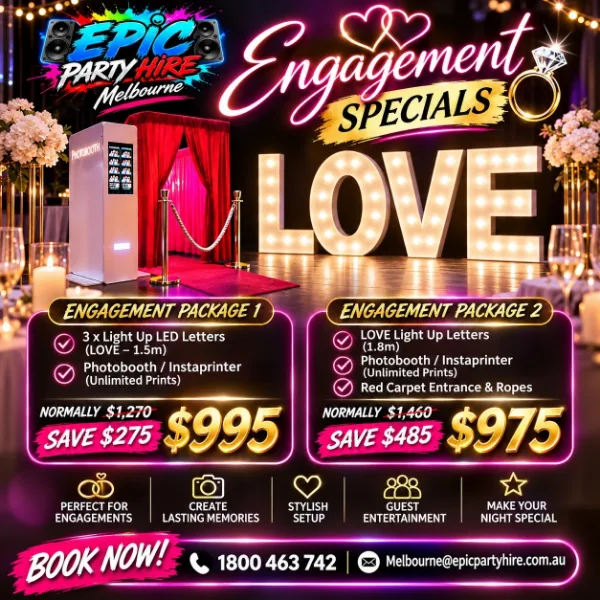
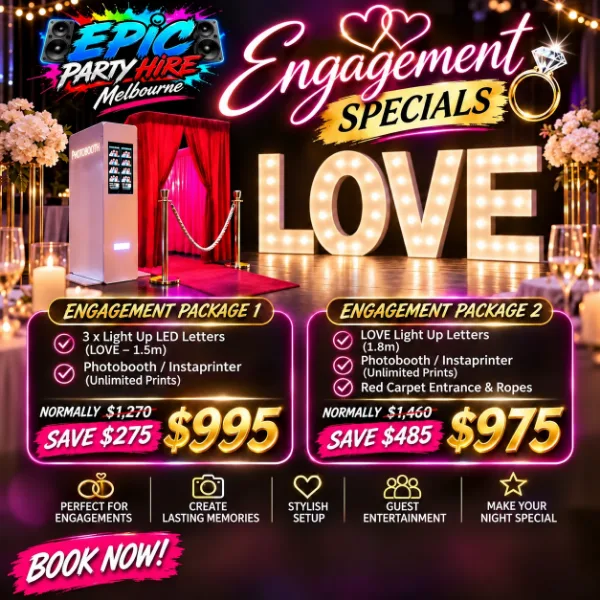
New package flyers without contact details: kids, VIP, corporate (also hero/OG), engagement

diff --git a/index.html b/index.html
@@ -17,15 +17,15 @@
 <meta content="EPIC Party Hire Melbourne" property="og:site_name"/>
 <meta content="Party Hire Melbourne | EPIC Party Hire" property="og:title"/>
 <meta content="Slushie machines, photo booths, popcorn, giant light-up numbers and party packages across Melbourne. Good times. Big moments. EPIC events." property="og:description"/>
-<meta content="https://www.epicpartyhire.com.au/assets/corporate.webp?v=2" property="og:image"/>
+<meta content="https://www.epicpartyhire.com.au/assets/corporate.webp?v=3" property="og:image"/>
 <meta content="EPIC Party Hire Melbourne corporate event package" property="og:image:alt"/>
 <meta content="https://www.epicpartyhire.com.au/" property="og:url"/>
 <meta content="summary_large_image" name="twitter:card"/>
 <meta content="Party Hire Melbourne | EPIC Party Hire" name="twitter:title"/>
 <meta content="Slushie machines, photo booths, popcorn, giant light-up numbers and party packages across Melbourne." name="twitter:description"/>
-<meta content="https://www.epicpartyhire.com.au/assets/corporate.webp?v=2" name="twitter:image"/>
+<meta content="https://www.epicpartyhire.com.au/assets/corporate.webp?v=3" name="twitter:image"/>
 <link href="/favicon.ico?v=logo2" rel="icon" sizes="48x48"/><link href="/assets/icon-96.png?v=logo2" rel="icon" sizes="96x96" type="image/png"/><link href="/assets/icon-192.png?v=logo2" rel="icon" sizes="192x192" type="image/png"/><link href="/apple-touch-icon.png?v=logo2" rel="apple-touch-icon" sizes="180x180"/><link href="/site.webmanifest?v=logo2" rel="manifest"/>
-<link as="image" fetchpriority="high" href="assets/corporate.webp?v=2" rel="preload" type="image/webp"/>
+<link as="image" fetchpriority="high" href="assets/corporate.webp?v=3" rel="preload" type="image/webp"/>
 <link href="styles.css?v=faces2" rel="stylesheet"/>
 <script type="application/ld+json">{"@context":"https://schema.org","@graph":[
 {"@type":"LocalBusiness","@id":"https://www.epicpartyhire.com.au/#business","name":"EPIC Party Hire Melbourne","alternateName":"EPIC Party Hire","sameAs":["https://www.facebook.com/profile.php?id=61595848451612","https://www.instagram.com/epicpartyhiremelbourne/"],"url":"https://www.epicpartyhire.com.au/","logo":"https://www.epicpartyhire.com.au/assets/logo-epic.webp","image":["https://www.epicpartyhire.com.au/assets/corporate.webp","https://www.epicpartyhire.com.au/assets/crew.webp"],"email":"melbourne@epicpartyhire.com.au","telephone":"1800 463 742","priceRange":"$$","currenciesAccepted":"AUD","paymentAccepted":"Bank transfer","address":{"@type":"PostalAddress","addressLocality":"Melbourne","addressRegion":"VIC","addressCountry":"AU"},"areaServed":{"@type":"City","name":"Melbourne","containedInPlace":{"@type":"State","name":"Victoria"}},"description":"Melbourne party hire: slushie and popcorn machines, photo booths, giant light-up letters and numbers, karaoke, arcade games, outdoor cinema and party packages for birthdays, weddings, engagements and corporate events.","contactPoint":[{"@type":"ContactPoint","telephone":"1800 463 742","contactType":"sales","areaServed":"AU","availableLanguage":"English"},{"@type":"ContactPoint","name":"Cardez","telephone":"+61404875801","contactType":"customer service","areaServed":"AU"},{"@type":"ContactPoint","name":"Spock","telephone":"+61417308645","contactType":"customer service","areaServed":"AU"},{"@type":"ContactPoint","name":"Millsy","telephone":"+61468937636","contactType":"customer service","areaServed":"AU"}],
@@ -85,7 +85,7 @@
 <div class="hero__proof"><span aria-hidden="true" class="proof-icon">★</span><span>Birthdays <b>•</b> Weddings <b>•</b> Corporate events <b>•</b> More</span></div>
 </div>
 <div class="hero__visual">
-<div class="hero__visual-border"><img alt="EPIC Party Hire corporate event packages with photo booth, slushie machines, popcorn and light-up letters" fetchpriority="high" height="1254" src="assets/corporate.webp?v=2" width="1254"/></div>
+<div class="hero__visual-border"><img alt="EPIC Party Hire corporate event packages with photo booth, slushie machines, popcorn and light-up letters" fetchpriority="high" height="1254" src="assets/corporate.webp?v=3" width="1254"/></div>
 <div class="floating-sticker floating-sticker--top">TURN UP<br/><strong>THE FUN!</strong></div>
 <div class="floating-sticker floating-sticker--bottom">MELBOURNE PARTY &amp; EVENT HIRE</div>
 </div>
@@ -119,11 +119,11 @@
 <div class="container">
 <div class="section-heading section-heading--light"><div><span class="section-kicker">BIG FUN. BETTER VALUE.</span><h2 id="packages-title">THE EPIC <em>PACKAGES.</em></h2><p>Party bundles with the crowd favourites already picked out. Choose a vibe, tell us your date and we'll take it from there.</p></div><div class="package-arrows"><button aria-label="Scroll packages left" id="prev-package" type="button">←</button><button aria-label="Scroll packages right" id="next-package" type="button">→</button></div></div>
 <div aria-label="Party hire package options" class="package-rail" id="package-rail" tabindex="0">
-<article class="deal-card product-card" data-product="pkg-kids"><button aria-label="View details for Kids Party Package" class="product-card__open" type="button"><span class="deal-card__image"><img alt="Kids Party Package promotional artwork" decoding="async" height="657" loading="lazy" src="assets/cards/kids.webp?v=2" width="600"/><span class="deal-badge">SAVE $200</span></span></button><div class="deal-card__body"><div class="deal-card__titleline"><h3>Kids Party Package</h3><span class="deal-card__price">$510</span></div><p>Slushie, popcorn, fairy floss and a giant 90cm light-up number.</p><div class="deal-card__actions"><button class="deal-card__button deal-card__button--primary product-card__details-btn" type="button">VIEW DETAILS <span>+</span></button><button aria-label="Select this package and go to the enquiry form" class="deal-card__button deal-card__button--select choose-deal" data-item="Kids Party Package ($510)" type="button">SELECT PACKAGE <span>✓</span></button></div></div><div class="product-card__more" hidden=""><img alt="Kids Party Package flyer with prices" data-src="assets/kids.webp?v=2" height="1312" width="1199"/><h3>Kids Party Package</h3><p class="product-modal__spiel">Everything the little legends love in one bundle. Sweet treats, cold slushies and a giant light-up number for the birthday photos.</p><table class="product-modal__prices"><caption>Price</caption><tbody><tr><th scope="row">Package price <small>(normally $710)</small></th><td>$510</td></tr></tbody></table><h4>What's included</h4><ul><li>Single bowl slushie machine</li><li>Fairy floss machine (up to 150 serves)</li><li>Popcorn machine (up to 150 serves)</li><li>1 x giant light-up number (90cm)</li></ul><span class="product-modal__item" data-item="Kids Party Package ($510)" data-kind="package"></span></div></article>
-<article class="deal-card product-card" data-product="pkg-vip"><button aria-label="View details for VIP Night Package" class="product-card__open" type="button"><span class="deal-card__image"><img alt="VIP Night Package promotional artwork" decoding="async" height="600" loading="lazy" src="assets/cards/vip.webp?v=2" width="600"/><span class="deal-badge">SAVE $485</span></span></button><div class="deal-card__body"><div class="deal-card__titleline"><h3>VIP Night Package</h3><span class="deal-card__price">$975</span></div><p>Slushies, karaoke, photo booth, light-up numbers and snacks.</p><div class="deal-card__actions"><button class="deal-card__button deal-card__button--primary product-card__details-btn" type="button">VIEW DETAILS <span>+</span></button><button aria-label="Select this package and go to the enquiry form" class="deal-card__button deal-card__button--select choose-deal" data-item="VIP Night Package ($975)" type="button">SELECT PACKAGE <span>✓</span></button></div></div><div class="product-card__more" hidden=""><img alt="VIP Night Package flyer with prices" data-src="assets/vip.webp?v=2" height="1254" width="1254"/><h3>VIP Night Package</h3><p class="product-modal__spiel">Roll out the red carpet. Our biggest party bundle for 18ths, 21sts, 30ths, 40ths and every milestone worth going all out for.</p><table class="product-modal__prices"><caption>Price</caption><tbody><tr><th scope="row">Package price <small>(normally $1,460)</small></th><td>$975</td></tr></tbody></table><h4>What's included</h4><ul><li>1 x twin bowl slushie machine</li><li>Karaoke jukebox (5000+ tracks)</li><li>2 x light-up numbers (1.5m)</li><li>Photo booth / Instaprinter</li><li>Popcorn machine (up to 150 serves)</li><li>Fairy floss machine (up to 150 serves)</li></ul><span class="product-modal__item" data-item="VIP Night Package ($975)" data-kind="package"></span></div></article>
-<article class="deal-card product-card" data-product="pkg-corporate"><button aria-label="View details for Corporate Events" class="product-card__open" type="button"><span class="deal-card__image"><img alt="Corporate Events promotional artwork" decoding="async" height="600" loading="lazy" src="assets/cards/corporate.webp?v=2" width="600"/><span class="deal-badge">SAVE $600</span></span></button><div class="deal-card__body"><div class="deal-card__titleline"><h3>Corporate Events</h3><span class="deal-card__price">$1,500</span></div><p>Photo booth, karaoke, slushies, popcorn, fairy floss and light-ups.</p><div class="deal-card__actions"><button class="deal-card__button deal-card__button--primary product-card__details-btn" type="button">VIEW DETAILS <span>+</span></button><button aria-label="Select this package and go to the enquiry form" class="deal-card__button deal-card__button--select choose-deal" data-item="Corporate Events Package ($1,500)" type="button">SELECT PACKAGE <span>✓</span></button></div></div><div class="product-card__more" hidden=""><img alt="Corporate Events flyer with prices" data-src="assets/corporate.webp?v=2" height="1254" width="1254"/><h3>Corporate Events</h3><p class="product-modal__spiel">Premium event hire for business and corporate functions. Great for product launches, staff parties, end-of-year events, conferences and awards nights.</p><table class="product-modal__prices"><caption>Price</caption><tbody><tr><th scope="row">Package price <small>(normally $2,100)</small></th><td>$1,500</td></tr></tbody></table><h4>What's included</h4><ul><li>Photo booth / Instaprinter</li><li>Karaoke jukebox (5000+ tracks)</li><li>Twin bowl slushie machine</li><li>Popcorn machine</li><li>Fairy floss machine</li><li>Light-up letters and numbers</li></ul><span class="product-modal__item" data-item="Corporate Events Package ($1,500)" data-kind="package"></span></div></article>
+<article class="deal-card product-card" data-product="pkg-kids"><button aria-label="View details for Kids Party Package" class="product-card__open" type="button"><span class="deal-card__image"><img alt="Kids Party Package promotional artwork" decoding="async" height="800" loading="lazy" src="assets/cards/kids.webp?v=3" width="600"/><span class="deal-badge">SAVE $200</span></span></button><div class="deal-card__body"><div class="deal-card__titleline"><h3>Kids Party Package</h3><span class="deal-card__price">$510</span></div><p>Slushie, popcorn, fairy floss and a giant 90cm light-up number.</p><div class="deal-card__actions"><button class="deal-card__button deal-card__button--primary product-card__details-btn" type="button">VIEW DETAILS <span>+</span></button><button aria-label="Select this package and go to the enquiry form" class="deal-card__button deal-card__button--select choose-deal" data-item="Kids Party Package ($510)" type="button">SELECT PACKAGE <span>✓</span></button></div></div><div class="product-card__more" hidden=""><img alt="Kids Party Package flyer with prices" data-src="assets/kids.webp?v=3" height="1448" width="1086"/><h3>Kids Party Package</h3><p class="product-modal__spiel">Everything the little legends love in one bundle. Sweet treats, cold slushies and a giant light-up number for the birthday photos.</p><table class="product-modal__prices"><caption>Price</caption><tbody><tr><th scope="row">Package price <small>(normally $710)</small></th><td>$510</td></tr></tbody></table><h4>What's included</h4><ul><li>Single bowl slushie machine</li><li>Fairy floss machine (up to 150 serves)</li><li>Popcorn machine (up to 150 serves)</li><li>1 x giant light-up number (90cm)</li></ul><span class="product-modal__item" data-item="Kids Party Package ($510)" data-kind="package"></span></div></article>
+<article class="deal-card product-card" data-product="pkg-vip"><button aria-label="View details for VIP Night Package" class="product-card__open" type="button"><span class="deal-card__image"><img alt="VIP Night Package promotional artwork" decoding="async" height="800" loading="lazy" src="assets/cards/vip.webp?v=3" width="600"/><span class="deal-badge">SAVE $485</span></span></button><div class="deal-card__body"><div class="deal-card__titleline"><h3>VIP Night Package</h3><span class="deal-card__price">$975</span></div><p>Slushies, karaoke, photo booth, light-up numbers and snacks.</p><div class="deal-card__actions"><button class="deal-card__button deal-card__button--primary product-card__details-btn" type="button">VIEW DETAILS <span>+</span></button><button aria-label="Select this package and go to the enquiry form" class="deal-card__button deal-card__button--select choose-deal" data-item="VIP Night Package ($975)" type="button">SELECT PACKAGE <span>✓</span></button></div></div><div class="product-card__more" hidden=""><img alt="VIP Night Package flyer with prices" data-src="assets/vip.webp?v=3" height="1448" width="1086"/><h3>VIP Night Package</h3><p class="product-modal__spiel">Roll out the red carpet. Our biggest party bundle for 18ths, 21sts, 30ths, 40ths and every milestone worth going all out for.</p><table class="product-modal__prices"><caption>Price</caption><tbody><tr><th scope="row">Package price <small>(normally $1,460)</small></th><td>$975</td></tr></tbody></table><h4>What's included</h4><ul><li>1 x twin bowl slushie machine</li><li>Karaoke jukebox (5000+ tracks)</li><li>2 x light-up numbers (1.5m)</li><li>Photo booth / Instaprinter</li><li>Popcorn machine (up to 150 serves)</li><li>Fairy floss machine (up to 150 serves)</li></ul><span class="product-modal__item" data-item="VIP Night Package ($975)" data-kind="package"></span></div></article>
+<article class="deal-card product-card" data-product="pkg-corporate"><button aria-label="View details for Corporate Events" class="product-card__open" type="button"><span class="deal-card__image"><img alt="Corporate Events promotional artwork" decoding="async" height="600" loading="lazy" src="assets/cards/corporate.webp?v=3" width="600"/><span class="deal-badge">SAVE $600</span></span></button><div class="deal-card__body"><div class="deal-card__titleline"><h3>Corporate Events</h3><span class="deal-card__price">$1,500</span></div><p>Photo booth, karaoke, slushies, popcorn, fairy floss and light-ups.</p><div class="deal-card__actions"><button class="deal-card__button deal-card__button--primary product-card__details-btn" type="button">VIEW DETAILS <span>+</span></button><button aria-label="Select this package and go to the enquiry form" class="deal-card__button deal-card__button--select choose-deal" data-item="Corporate Events Package ($1,500)" type="button">SELECT PACKAGE <span>✓</span></button></div></div><div class="product-card__more" hidden=""><img alt="Corporate Events flyer with prices" data-src="assets/corporate.webp?v=3" height="1254" width="1254"/><h3>Corporate Events</h3><p class="product-modal__spiel">Premium event hire for business and corporate functions. Great for product launches, staff parties, end-of-year events, conferences and awards nights.</p><table class="product-modal__prices"><caption>Price</caption><tbody><tr><th scope="row">Package price <small>(normally $2,100)</small></th><td>$1,500</td></tr></tbody></table><h4>What's included</h4><ul><li>Photo booth / Instaprinter</li><li>Karaoke jukebox (5000+ tracks)</li><li>Twin bowl slushie machine</li><li>Popcorn machine</li><li>Fairy floss machine</li><li>Light-up letters and numbers</li></ul><span class="product-modal__item" data-item="Corporate Events Package ($1,500)" data-kind="package"></span></div></article>
 <article class="deal-card product-card" data-product="pkg-movie"><button aria-label="View details for Movie Night" class="product-card__open" type="button"><span class="deal-card__image"><img alt="Movie Night promotional artwork" decoding="async" height="600" loading="lazy" src="assets/cards/movie.webp?v=4" width="600"/><span class="deal-badge">SAVE $100</span></span></button><div class="deal-card__body"><div class="deal-card__titleline"><h3>Movie Night</h3><span class="deal-card__price">$400</span></div><p>Outdoor inflatable cinema screen and popcorn machine.</p><div class="deal-card__actions"><button class="deal-card__button deal-card__button--primary product-card__details-btn" type="button">VIEW DETAILS <span>+</span></button><button aria-label="Select this package and go to the enquiry form" class="deal-card__button deal-card__button--select choose-deal" data-item="Movie Night Package ($400)" type="button">SELECT PACKAGE <span>✓</span></button></div></div><div class="product-card__more" hidden=""><img alt="Movie Night flyer with prices" data-src="assets/movie.webp?v=4" height="1254" width="1254"/><h3>Movie Night</h3><p class="product-modal__spiel">Backyard movie night, sorted. A giant inflatable screen under the stars and fresh popcorn for everyone.</p><table class="product-modal__prices"><caption>Price</caption><tbody><tr><th scope="row">Package price <small>(normally $500)</small></th><td>$400</td></tr></tbody></table><h4>What's included</h4><ul><li>Outdoor cinema with large 100-inch inflatable screen</li><li>Popcorn machine (serves included)</li></ul><span class="product-modal__item" data-item="Movie Night Package ($400)" data-kind="package"></span></div></article>
-<article class="deal-card product-card" data-product="pkg-engagement"><button aria-label="View details for Special Engagement" class="product-card__open" type="button"><span class="deal-card__image"><img alt="Special Engagement promotional artwork" decoding="async" height="600" loading="lazy" src="assets/cards/engagement.webp?v=2" width="600"/><span class="deal-badge">SAVE UP TO $485</span></span></button><div class="deal-card__body"><div class="deal-card__titleline"><h3>Special Engagement</h3><span class="deal-card__price">From $975</span></div><p>Two packages: LOVE letters and photo booth, or add a red carpet entrance.</p><div class="deal-card__actions"><button class="deal-card__button deal-card__button--primary product-card__details-btn" type="button">VIEW DETAILS <span>+</span></button><button aria-label="Select this package and go to the enquiry form" class="deal-card__button deal-card__button--select choose-deal" data-item="Special Engagement package (from $975)" type="button">SELECT PACKAGE <span>✓</span></button></div></div><div class="product-card__more" hidden=""><img alt="Special Engagement flyer with prices" data-src="assets/engagement.webp?v=2" height="1254" width="1254"/><h3>Special Engagement</h3><p class="product-modal__spiel">Make the big yes unforgettable. Glowing LOVE letters, a photo booth so every guest takes home a memory, and the option of a red-carpet VIP entrance.</p><table class="product-modal__prices"><caption>Prices</caption><tbody><tr><th scope="row">Package 1 <small>(normally $1,270)</small></th><td>$995</td></tr><tr><th scope="row">Package 2 <small>(normally $1,460)</small></th><td>$975</td></tr></tbody></table><h4>Package 1 includes</h4><ul><li>3 x light-up LED letters (LOVE, 1.5m)</li><li>Photo booth / Instaprinter with unlimited prints</li></ul><h4>Package 2 includes</h4><ul><li>LOVE light-up letters (1.8m)</li><li>Photo booth / Instaprinter with unlimited prints</li><li>Red carpet entrance and ropes</li></ul><span class="product-modal__item" data-item="Special Engagement package (from $975)" data-kind="package"></span></div></article>
+<article class="deal-card product-card" data-product="pkg-engagement"><button aria-label="View details for Special Engagement" class="product-card__open" type="button"><span class="deal-card__image"><img alt="Special Engagement promotional artwork" decoding="async" height="600" loading="lazy" src="assets/cards/engagement.webp?v=3" width="600"/><span class="deal-badge">SAVE UP TO $485</span></span></button><div class="deal-card__body"><div class="deal-card__titleline"><h3>Special Engagement</h3><span class="deal-card__price">From $975</span></div><p>Two packages: LOVE letters and photo booth, or add a red carpet entrance.</p><div class="deal-card__actions"><button class="deal-card__button deal-card__button--primary product-card__details-btn" type="button">VIEW DETAILS <span>+</span></button><button aria-label="Select this package and go to the enquiry form" class="deal-card__button deal-card__button--select choose-deal" data-item="Special Engagement package (from $975)" type="button">SELECT PACKAGE <span>✓</span></button></div></div><div class="product-card__more" hidden=""><img alt="Special Engagement flyer with prices" data-src="assets/engagement.webp?v=3" height="1254" width="1254"/><h3>Special Engagement</h3><p class="product-modal__spiel">Make the big yes unforgettable. Glowing LOVE letters, a photo booth so every guest takes home a memory, and the option of a red-carpet VIP entrance.</p><table class="product-modal__prices"><caption>Prices</caption><tbody><tr><th scope="row">Package 1 <small>(normally $1,270)</small></th><td>$995</td></tr><tr><th scope="row">Package 2 <small>(normally $1,460)</small></th><td>$975</td></tr></tbody></table><h4>Package 1 includes</h4><ul><li>3 x light-up LED letters (LOVE, 1.5m)</li><li>Photo booth / Instaprinter with unlimited prints</li></ul><h4>Package 2 includes</h4><ul><li>LOVE light-up letters (1.8m)</li><li>Photo booth / Instaprinter with unlimited prints</li><li>Red carpet entrance and ropes</li></ul><span class="product-modal__item" data-item="Special Engagement package (from $975)" data-kind="package"></span></div></article>
 </div>
 <p class="price-note">Prices in AUD. Delivery, inclusions and availability are confirmed with you before you book.</p>
 </div>
